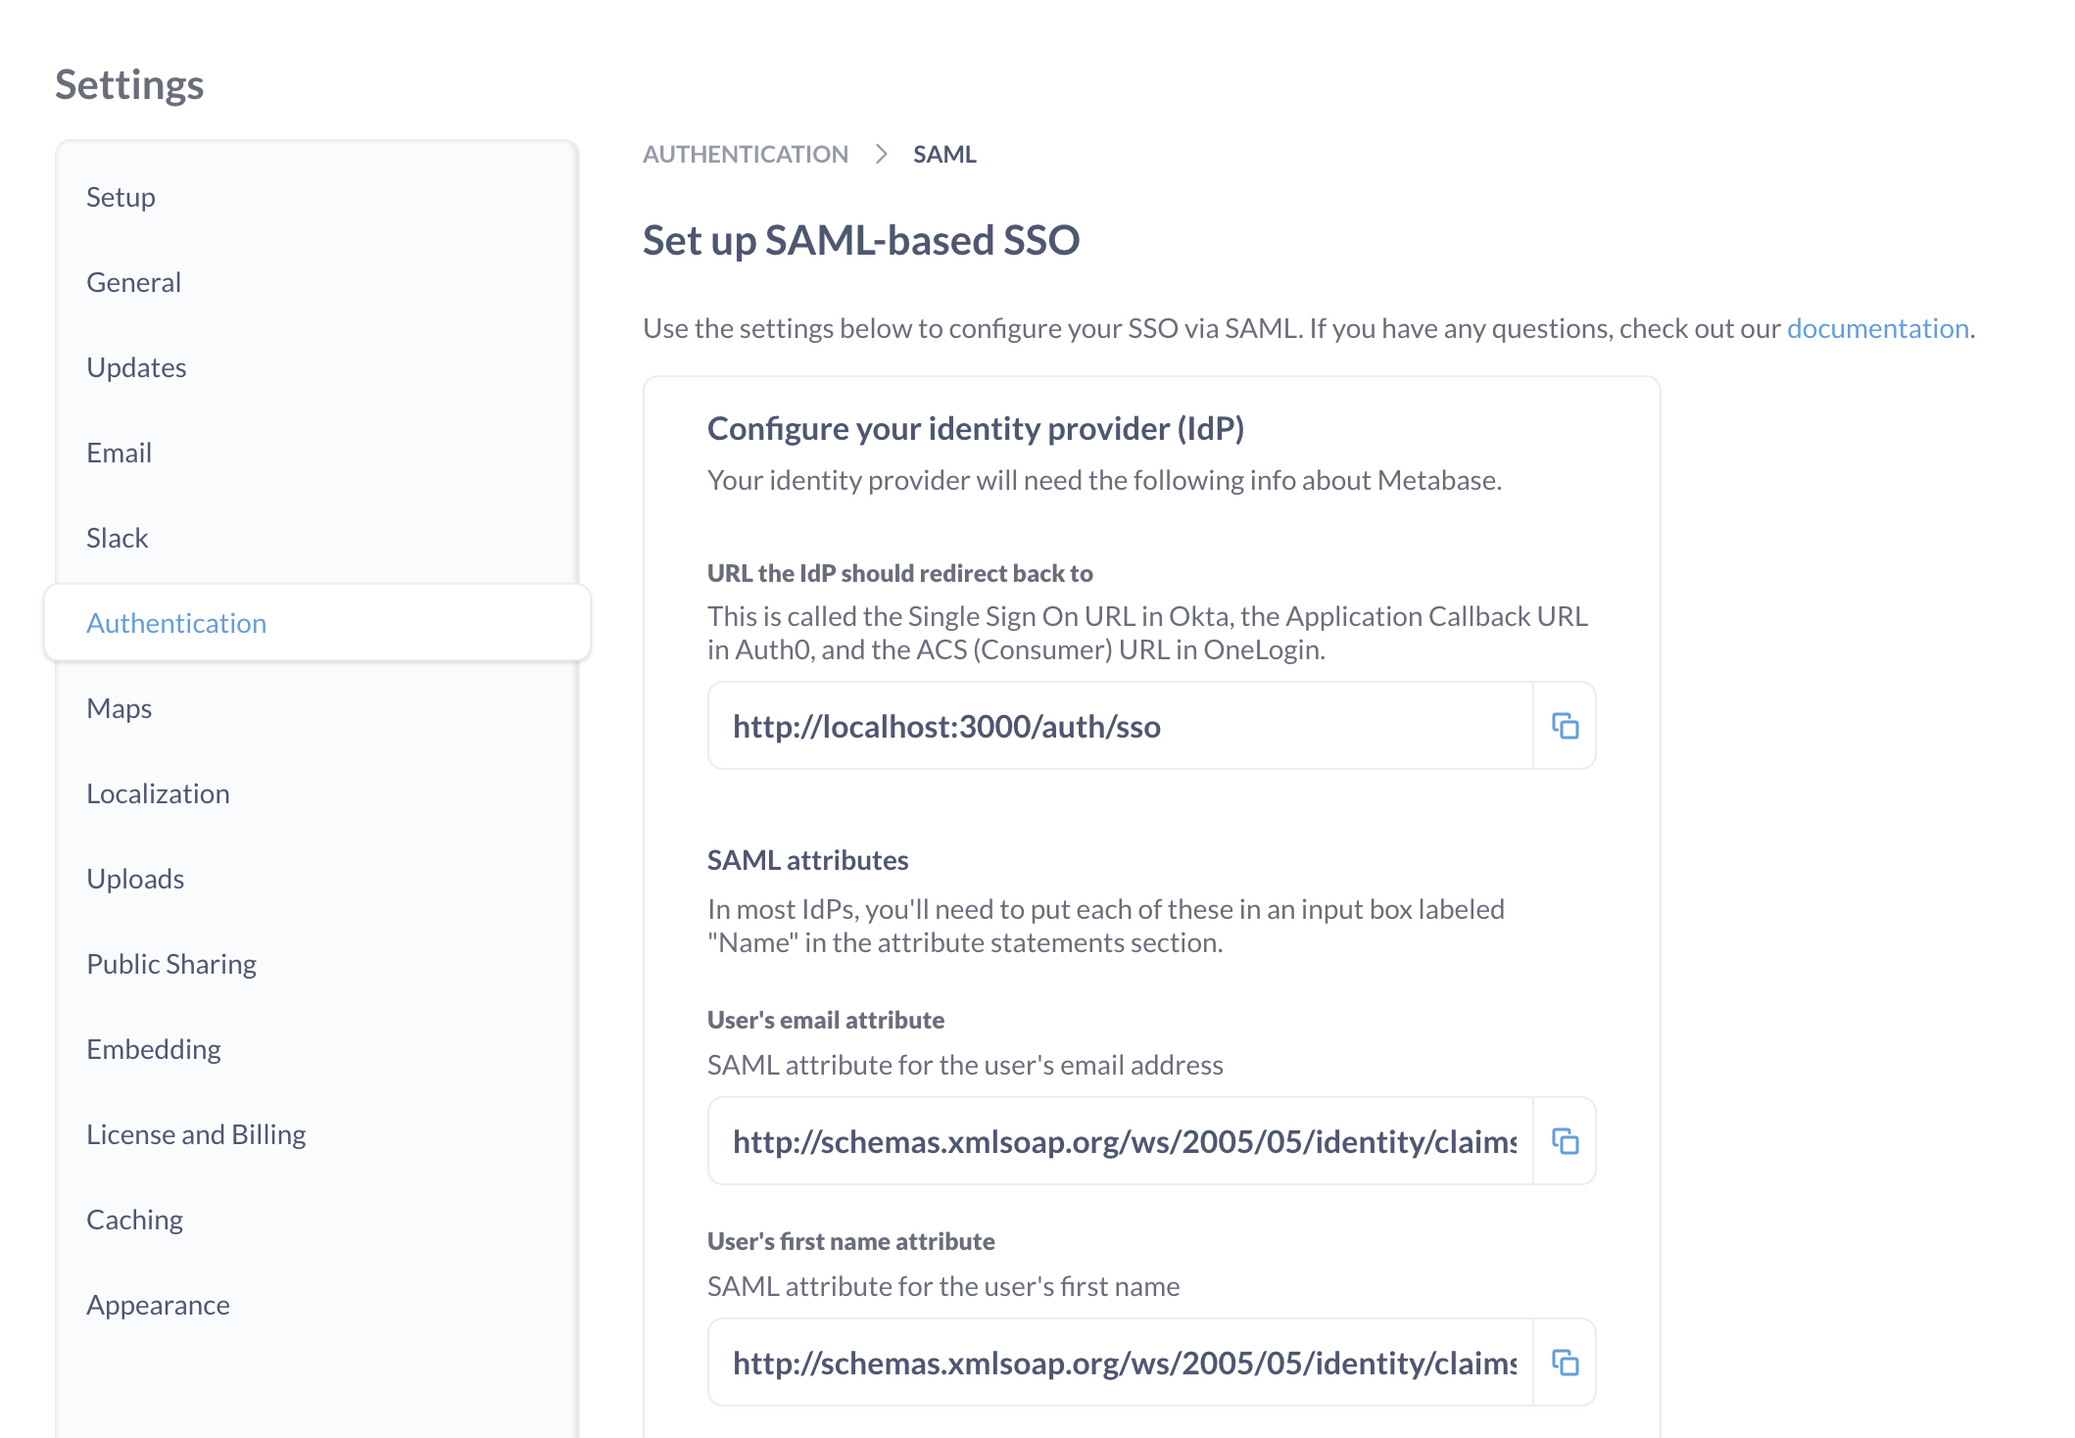
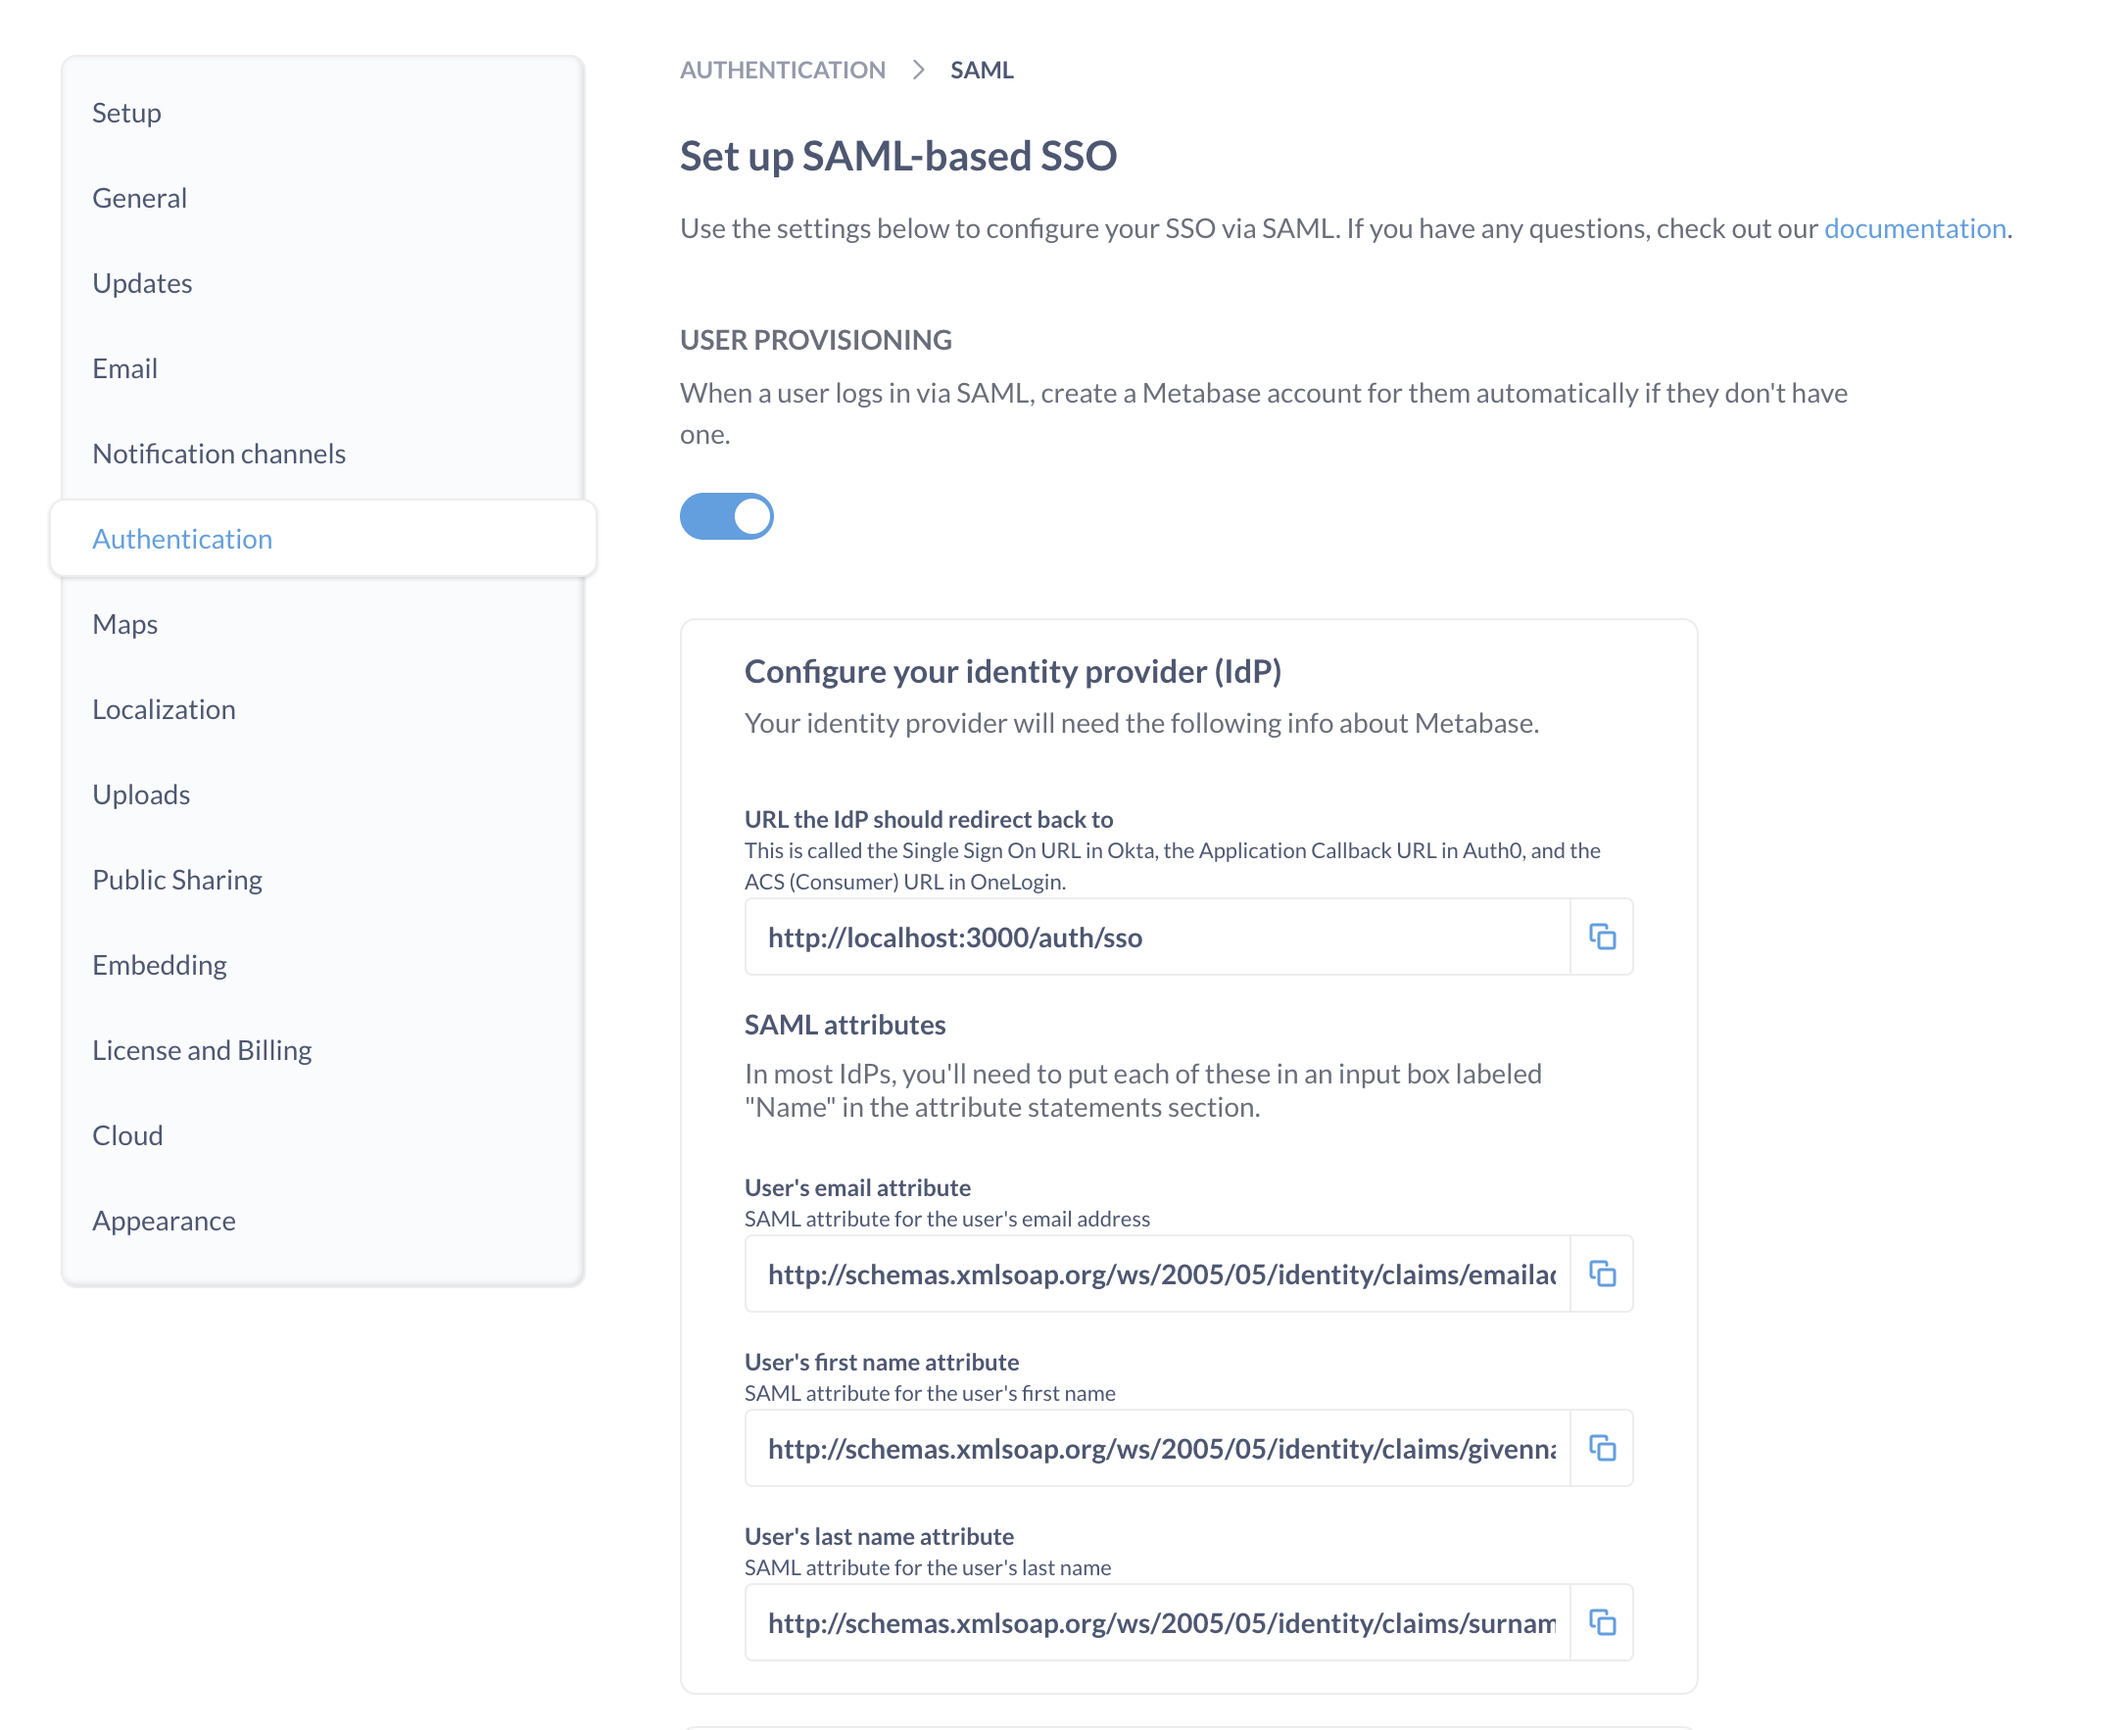
docs - user provisioning with SCIM (#48411)

diff --git a/docs/people-and-groups/user-provisioning.md b/docs/people-and-groups/user-provisioning.md
@@ -1,0 +1,66 @@
+---
+title: User provisioning with SCIM
+---
+
+# User provisioning with SCIM
+
+{% include plans-blockquote.html feature="User provisioning with SCIM" %}
+
+Metabase supports user provisioning via the System for Cross-domain Identity Management (SCIM) protocol. In addition to Single Sign-on (SSO), you can set up user provisioning in Metabase with SCIM to:
+
+- **Decouple authentication from provisioning**. Even though anyone could authenticate with SSO, you may only want some people to be able to create an account in Metabase.
+- **Support deprovisioning user accounts**. If you deactivate someone from your SSO, SCIM can let Metabase know to deactivate their Metabase account as well.
+
+> For now, Metabase officially supports SCIM for [Okta](https://help.okta.com/en-us/content/topics/apps/apps_app_integration_wizard_scim.htm?cshid=ext_Apps_App_Integration_Wizard-scim) and [Microsoft Entra ID](https://learn.microsoft.com/en-us/entra/identity/app-provisioning/configure-automatic-user-provisioning-portal). Other SCIM providers may work, but we haven't tested them. If you're having issues with another identity provider, please [reach out to us](https://www.metabase.com/help/premium).
+
+## Setting up user provisioning
+
+![Setting up user provisioning with SCIM in Metabase](./images/user-provisioning.png)
+
+To set up user provisioning. Click on the settings **Gear** icon in the upper right and navigate to **Admin settings** > **Settings**> **Authentication**.
+
+Click on the **User provisioning** tab.
+
+## User provisioning via SCIM
+
+To set up user provisioning with SCIM, hit the toggle to enable it. Metabase will tell you the SCIM endpoint URL and SCIM token to share with your identity provider.
+
+> If you've previously set up user provisioning with SAML, Metabase will turn that setting off and use the SCIM setup instead.
+
+## SCIM endpoint URL
+
+The SCIM endpoint is `/api/ee/scim/v2`. So your URL will looks something like:
+
+```
+https://metabase.example.com/api/ee/scim/v2
+```
+
+Replacing the hostname with your Metabase's hostname.
+
+Share this endpoint URL with your identity provider.
+
+## SCIM token
+
+Copy the token and save the token somewhere safe. For security, Metabase can't show you the token again. You can, however, regenerate the token, but you'll need to let your identity provider know about the new token.
+
+## SCIM with Okta
+
+Once you've enabled SCIM in Metabase and gotten your SCIM endpoint URL and SCIM token, follow the docs for [Setting up SCIM in Okta](https://help.okta.com/en-us/content/topics/apps/apps_app_integration_wizard_scim.htm?cshid=ext_Apps_App_Integration_Wizard-scim).
+
+With Okta, Metabase supports user and group provisioning; groups are created and populated in Metabase.
+
+## SCIM with Microsoft Entra ID
+
+Once you've enabled SCIM in Metabase and gotten your SCIM endpoint URL and SCIM token, follow the docs for [Setting up SCIM in Microsoft Entra ID](https://learn.microsoft.com/en-us/entra/identity/app-provisioning/configure-automatic-user-provisioning-portal).
+
+With Microsoft Entra ID, Metabase only supports user provisioning (groups aren't created or populated).
+
+## Notify admins of new users provisioned from SSO
+
+If you're not using SCIM to provision user accounts, you can optionally have Metabase send an email to admins whenever someone signs in to Metabase via SSO for the first time (which creates a Metabase account). This setting doesn't require you to set up SCIM.
+
+## Further reading
+
+- [Authenticating with SAML](./authenticating-with-saml.md)
+- [SAML with Okta](./saml-okta.md)
+- [SAML with Microsoft Entra ID](./saml-azure.md)

diff --git a/docs/people-and-groups/authenticating-with-saml.md b/docs/people-and-groups/authenticating-with-saml.md
@@ -10,6 +10,7 @@ redirect_from:
 
 Integrating your SSO with Metabase allows you to:
 
+- Provision a Metabase account when someone logs in to Metabase.
 - Automatically pass user attributes from your SSO to Metabase in order to power [data sandboxes](../permissions/data-sandboxes.md).
 - Let people access Metabase without re-authenticating.
 
@@ -19,7 +20,7 @@ Before setting up SAML, make sure you know the password for your Metabase admin 
 
 ## Setting up SAML with your IdP in Metabase
 
-Once you've [confirmed the password to your Metabase admin account](#confirm-the-password-for-your-metabase-admin-account), head over to the **Settings** section of the Admin Panel, then click on the **Authentication** tab. Click the **Configure** button in the SAML section of the Authentication page, and you'll see this form:
+Once you've [confirmed the password to your Metabase admin account](#confirm-the-password-for-your-metabase-admin-account), head over to the **Settings** section of the Admin Panel, then click on the **Authentication** tab. Click the **Set up** button in the SAML section of the Authentication page, and you'll see this form:
 
 ![SAML form](images/saml-form.png)
 
@@ -28,6 +29,8 @@ The form includes three sections:
 1. [Metabase info that you'll have to input into your identity provider (IdP)](#generic-saml-configuration).
 2. [IdP info that you'll need to tell Metabase about](#enabling-saml-authentication-in-metabase).
 3. [Signing SSO requests (optional)](#settings-for-signing-sso-requests-optional).
+
+## SAML guides
 
 First you'll need to make sure things are configured correctly with your IdP. Each IdP handles SAML setup differently.
 
@@ -44,6 +47,12 @@ If you don't see your IdP listed here:
 - Refer to your IdP's reference docs on configuring SAML. You'll be looking for something like this [OneLogin SAML guide](https://onelogin.service-now.com/support?id=kb_article&sys_id=83f71bc3db1e9f0024c780c74b961970).
 - Using the information found on the Metabase SAML form, fill out your IdP's SAML form.
 - For more information, see the next section on [Generic SAML configuration](#generic-saml-configuration).
+
+## User provisioning
+
+By default, Metabase will create accounts for people who don't yet have a Metabase account but who are able to log in via SAML SSO.
+
+If you've set up [User provisioning with SCIM](./user-provisioning.md), you'll want to turn this setting off so that Metabase doesn't automatically create a new account for anyone who authenticates successfully, as you may want to use SCIM to determine who can and can't create an account in Metabase.
 
 ## Generic SAML configuration
 

diff --git a/docs/paid-features/overview.md b/docs/paid-features/overview.md
@@ -11,7 +11,7 @@ Metabase's [Enterprise and Pro](https://www.metabase.com/pricing) plans provide 
 - **If you're on Metabase Cloud**, your Pro/Enterprise features will activate automatically.
 - **If you're self-hosting,** you'll need to [activate your license](./activating-the-enterprise-edition.md).
 
-## Authentication
+## Authentication and provisioning
 
 Pro and Enterprise plans include more ways to authenticate people and manage groups.
 
@@ -23,6 +23,7 @@ Pro and Enterprise plans include more ways to authenticate people and manage gro
   - [Setting up SAML with Okta](../people-and-groups/saml-okta.md)
 - [Authenticating with JWT](../people-and-groups/authenticating-with-jwt.md)
 - [Multiple domains with Google Sign-in](../people-and-groups/google-and-ldap.md#multiple-domains-for-google-sign-in)
+- [User provisioning with SCIM](../people-and-groups/user-provisioning.md)
 
 ## Permissions
 
@@ -91,7 +92,7 @@ All Metabase editions include global caching controls. Pro and Enterprise plans 
 
 See how people are using your Metabase.
 
-- [Metabase analytics](../usage-and-performance-tools/usage-analytics.md)
+- [Usage analytics](../usage-and-performance-tools/usage-analytics.md)
 
 ## Admin tools
 

diff --git a/docs/people-and-groups/saml-azure.md b/docs/people-and-groups/saml-azure.md
@@ -57,3 +57,7 @@ Under "Tell Metabase about your identity provider", enter the following:
 - **SAML Identity Provider Issuer**: the "Microsoft Entra Identifier" URL you got from the Microsoft Entra ID SAML SSO configuration.
 
 Click on **Save Changes** below, and you should now be able to log in via Microsoft Entra ID.
+
+## Further reading
+
+- [User provisioning](./user-provisioning.md)

diff --git a/docs/people-and-groups/start.md b/docs/people-and-groups/start.md
@@ -67,6 +67,10 @@ Create keys to authenticate API calls.
 [saml-keycloak]: ./saml-keycloak.md
 [sso-def]: https://www.metabase.com/glossary/sso
 
+## [User provisioning](./user-provisioning.md)
+
+Metabase supports user provisioning via the SCIM protocol.
+
 ## [Accessibility](./accessibility.md)
 
 Notes on Metabase's accessibility.

diff --git a/docs/README.md b/docs/README.md
@@ -152,6 +152,7 @@ Metabase's reference documentation.
   - [SAML with Google](./people-and-groups/saml-google.md)
   - [SAML with Keycloak](./people-and-groups/saml-keycloak.md)
   - [SAML with Okta](./people-and-groups/saml-okta.md)
+- [User provisioning with SCIM](./people-and-groups/user-provisioning.md)
 
 ### Permissions
 

diff --git a/docs/people-and-groups/saml-okta.md b/docs/people-and-groups/saml-okta.md
@@ -199,3 +199,7 @@ For common issues, go to [Troubleshooting SAML][troubleshooting-saml].
 [saml-doc]: ./authenticating-with-saml.md
 [site-url]: ../configuring-metabase/settings.md#site-url
 [troubleshooting-saml]: ../troubleshooting-guide/saml.md
+
+## Further reading
+
+- [User provisioning](./user-provisioning.md)
